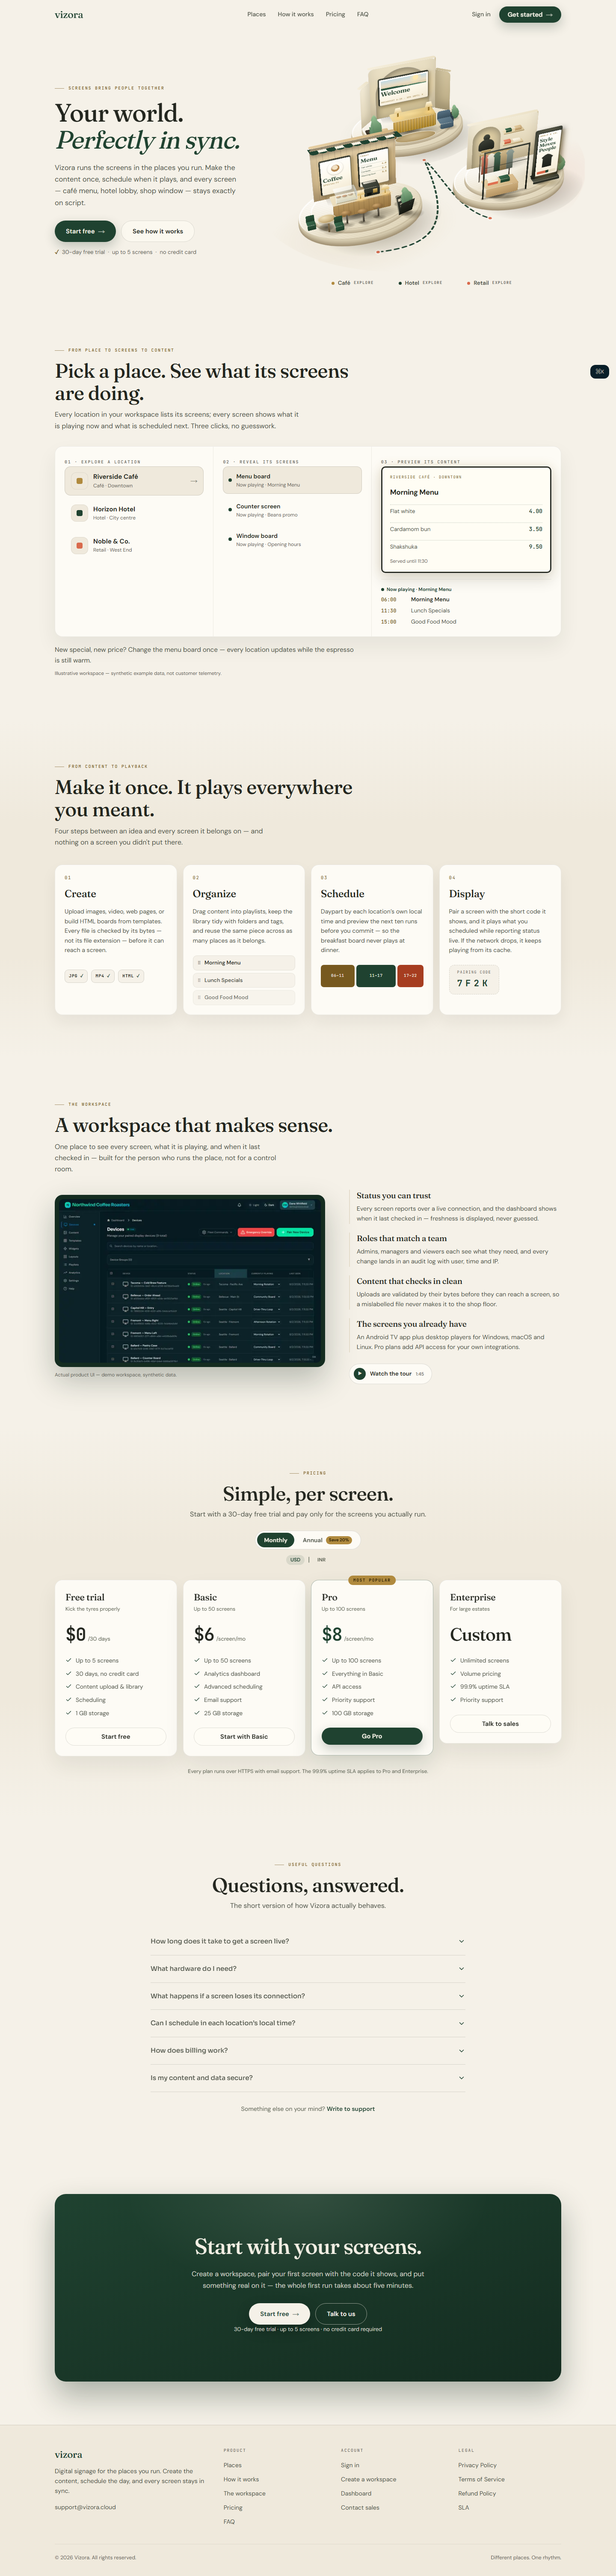
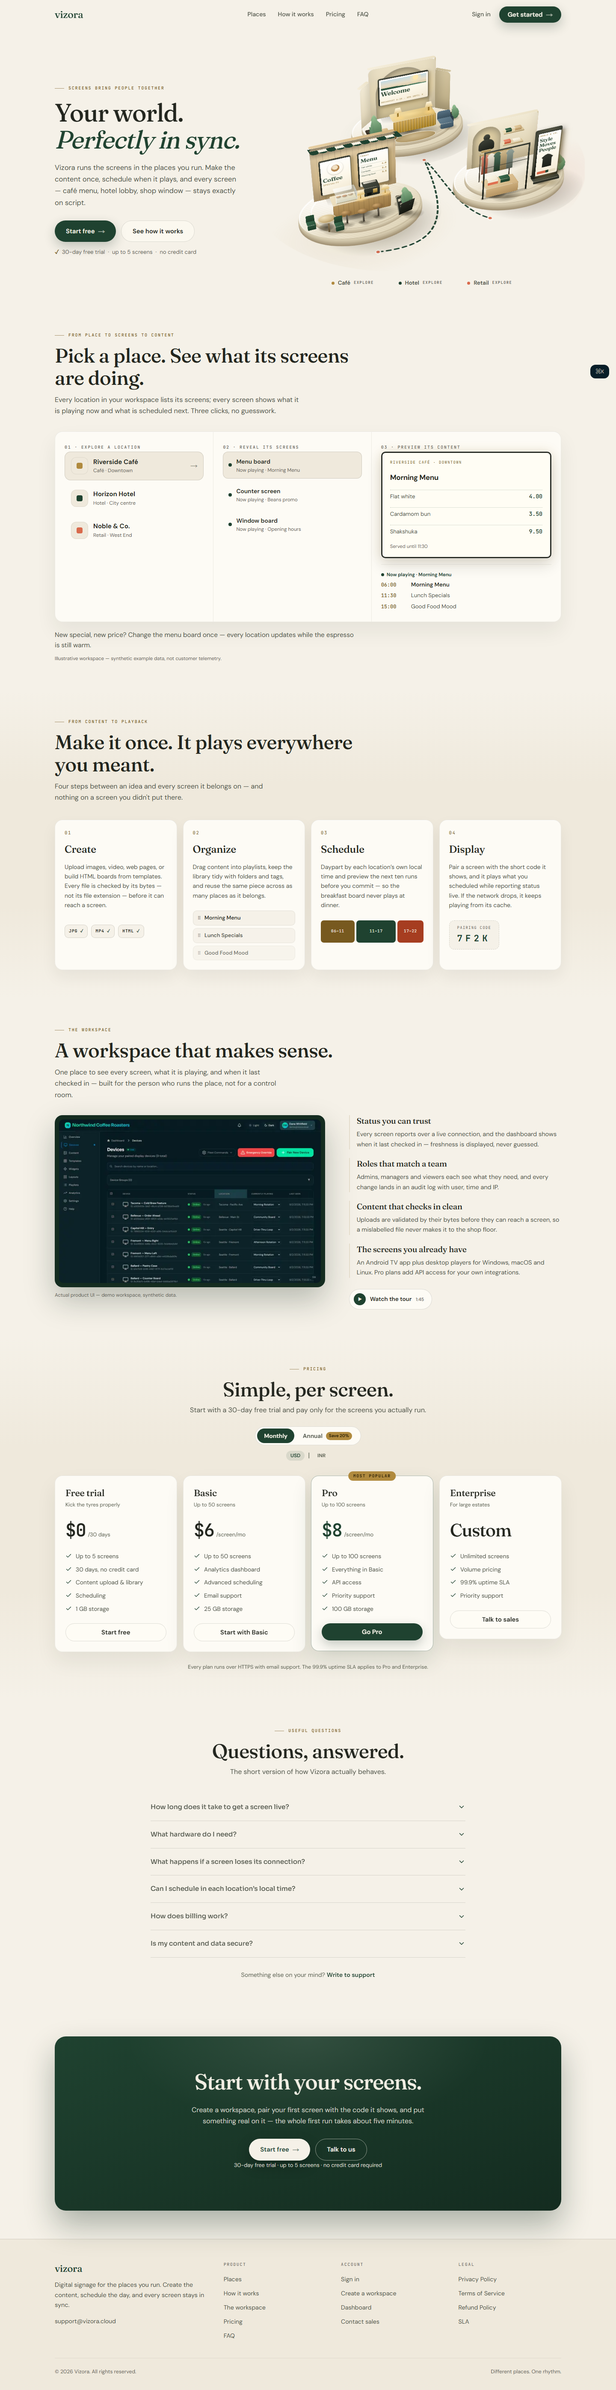
style(web): tighten the homepage's vertical rhythm behind one --lw-sec-y token
Every landing section carried its own `clamp(56px,7vw,104px)` top AND bottom,
which put 202px of air between every pair at 1440 (208 at 1920, 112 at 390).
One token in the homepage-only `.lw` scope now drives all of them:

  --lw-sec-y: clamp(40px, 4.6vw, 68px)

so a section-to-section gap is exactly 2x it and re-tuning the page's breathing
is a one-line edit. Applied to places, how-it-works, product, pricing, faq and
the final CTA's outer spacing. The CTA card's own vertical padding comes down
from clamp(40px,6vw,84px) to clamp(38px,4.8vw,68px) so the forest card stays in
proportion to the tighter rhythm instead of dwarfing it.

Measured, scrolled, on the production build:

  1440   202px -> 132px between every section (hero->places 131 -> 96)
  1920   208px -> 136px
  390    112px ->  80px

The reported extra ~24px above the pricing and FAQ heads does NOT exist in the
layout. `.eh-reveal` starts at translateY(24px) and settles to 0 once revealed,
so any measurement taken before those below-the-fold sections have finished
their transition reports a phantom +24 above and -24 below. `gaps.mjs` now
scrolls the page and waits for the reveals to settle first; with that, every
section reports topGap == padding == botGap at every width. Two runs of the
unsettled script disagree with each other, which is what pins it as timing
rather than layout.

Workspace two-column: `align-items` center -> start. Centring the strengths
[…]

diff --git a/web/src/components/landing/WorkspaceSection.tsx b/web/src/components/landing/WorkspaceSection.tsx
@@ -31,11 +31,11 @@ const STRENGTHS: Array<{ title: string; copy: string }> = [
 ];
 
 const CSS = `
-.lw-work{padding:clamp(56px,7vw,104px) 0}
+.lw-work{padding:var(--lw-sec-y) 0}
 .lww-head{max-width:44rem;margin-bottom:34px}
 .lww-head h2{font-size:clamp(1.9rem,3.4vw,2.9rem);margin:14px 0 12px}
 .lww-head p{color:var(--lw-ink-2);line-height:1.65;max-width:34rem}
-.lww-grid{display:grid;grid-template-columns:56fr 44fr;gap:clamp(26px,4vw,56px);align-items:center}
+.lww-grid{display:grid;grid-template-columns:56fr 44fr;gap:clamp(26px,4vw,56px);align-items:start}
 /* The capture is the app's real dark theme — seated in a deep-forest bezel it
    reads as a framed device view rather than a palette clash on the ivory page. */
 .lww-shot{border-radius:18px;overflow:hidden;padding:10px;background:var(--lw-forest-deep);

diff --git a/web/src/components/landing/PricingSection.tsx b/web/src/components/landing/PricingSection.tsx
@@ -28,7 +28,7 @@ const PRO_FEATURES = ['Up to 100 screens', 'Everything in Basic', 'API access', 
 const ENTERPRISE_FEATURES = ['Unlimited screens', 'Volume pricing', '99.9% uptime SLA', 'Priority support'];
 
 const CSS = `
-.lw-pricing{padding:clamp(56px,7vw,104px) 0;background:linear-gradient(180deg,transparent,var(--lw-paper-2) 30%,var(--lw-paper-2) 70%,transparent)}
+.lw-pricing{padding:var(--lw-sec-y) 0;background:linear-gradient(180deg,transparent,var(--lw-paper-2) 30%,var(--lw-paper-2) 70%,transparent)}
 .lwr-head{text-align:center;max-width:42rem;margin:0 auto 30px}
 .lwr-head h2{font-size:clamp(1.9rem,3.4vw,2.9rem);margin:14px 0 10px}
 .lwr-head p{color:var(--lw-ink-2)}

diff --git a/web/src/app/globals.css b/web/src/app/globals.css
@@ -578,6 +578,14 @@ body {
 
   --lw-serif: var(--font-fraunces), 'Iowan Old Style', Georgia, serif;
 
+  /* ONE vertical rhythm for every landing section's top AND bottom padding, so
+     the gap between two sections is exactly 2x this and changing the page's
+     breathing is a one-line edit. Each section used to carry its own
+     clamp(56px,7vw,104px), which put 202px between every pair at 1440.
+     Homepage-only: `.lw` is applied by the homepage wrapper alone, so the
+     legal/auth pages (plain `.mkt`) are untouched. */
+  --lw-sec-y: clamp(40px, 4.6vw, 68px);
+
   background: var(--lw-paper);
   color: var(--lw-ink);
 

diff --git a/web/src/components/landing/FinalCTASection.tsx b/web/src/components/landing/FinalCTASection.tsx
@@ -3,9 +3,9 @@
 import Link from 'next/link';
 
 const CSS = `
-.lw-final{padding:clamp(48px,6vw,90px) 0 clamp(56px,7vw,104px)}
+.lw-final{padding:var(--lw-sec-y) 0}
 .lwf-panel{background:linear-gradient(160deg,var(--lw-forest) 0%,var(--lw-forest-deep) 100%);
-  border-radius:26px;padding:clamp(40px,6vw,84px) clamp(24px,5vw,72px);text-align:center;
+  border-radius:26px;padding:clamp(38px,4.8vw,68px) clamp(24px,5vw,72px);text-align:center;
   color:var(--lw-on-forest);position:relative;overflow:hidden;
   box-shadow:0 34px 70px rgba(20,44,32,.32)}
 .lwf-panel::after{content:'';position:absolute;inset:0;pointer-events:none;

diff --git a/web/src/components/landing/PipelineSection.tsx b/web/src/components/landing/PipelineSection.tsx
@@ -80,7 +80,7 @@ const STEPS: Array<{ n: string; title: string; copy: string; art: ReactNode }> =
 ];
 
 const CSS = `
-.lw-pipe{padding:clamp(56px,7vw,104px) 0;background:linear-gradient(180deg,transparent,var(--lw-paper-2) 30%,var(--lw-paper-2) 70%,transparent)}
+.lw-pipe{padding:var(--lw-sec-y) 0;background:linear-gradient(180deg,transparent,var(--lw-paper-2) 30%,var(--lw-paper-2) 70%,transparent)}
 .lwq-head{max-width:44rem;margin-bottom:38px}
 .lwq-head h2{font-size:clamp(1.9rem,3.4vw,2.9rem);margin:14px 0 12px}
 .lwq-head p{color:var(--lw-ink-2);line-height:1.65;max-width:34rem}

diff --git a/web/src/components/landing/PlacesSection.tsx b/web/src/components/landing/PlacesSection.tsx
@@ -270,7 +270,7 @@ const PLACES: Place[] = [
 ];
 
 const CSS = `
-.lw-places{padding:clamp(56px,7vw,104px) 0}
+.lw-places{padding:var(--lw-sec-y) 0}
 .lwp-head{max-width:46rem;margin-bottom:34px}
 .lwp-head h2{font-size:clamp(1.9rem,3.4vw,2.9rem);margin:14px 0 12px}
 .lwp-head p{color:var(--lw-ink-2);line-height:1.65;max-width:36rem}

diff --git a/web/src/components/landing/FAQSection.tsx b/web/src/components/landing/FAQSection.tsx
@@ -36,7 +36,7 @@ const FAQ_DATA = [
 ];
 
 const CSS = `
-.lw-faq{padding:clamp(56px,7vw,104px) 0}
+.lw-faq{padding:var(--lw-sec-y) 0}
 .lwx-head{text-align:center;max-width:40rem;margin:0 auto 40px}
 .lwx-head h2{font-size:clamp(1.9rem,3.4vw,2.9rem);margin:14px 0 10px}
 .lwx-head p{color:var(--lw-ink-2)}
